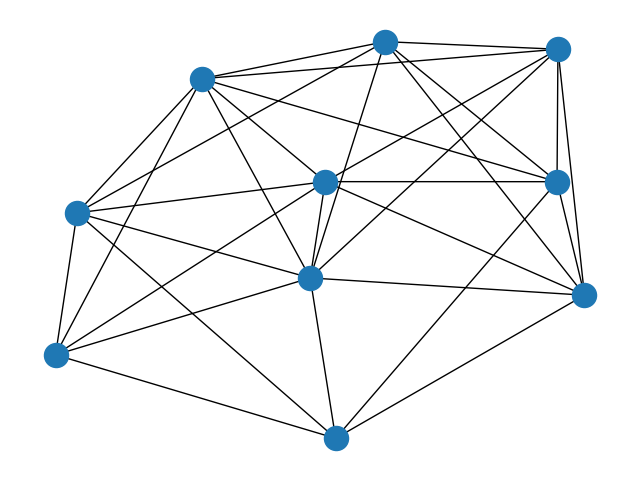
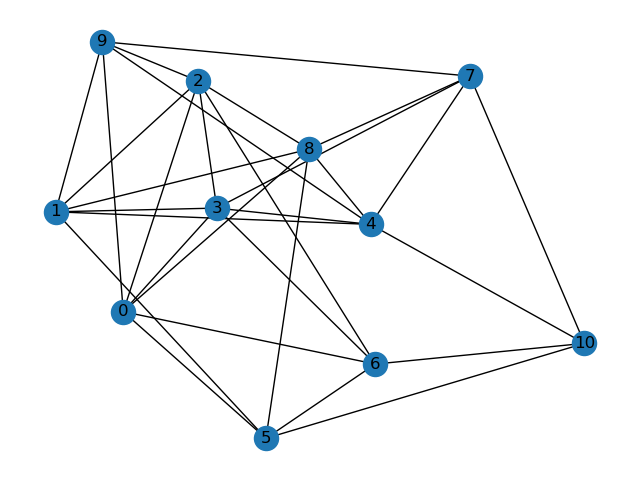
added latencies

diff --git a/main.py b/main.py
@@ -2,6 +2,8 @@ import heapq
 import random
 import networkx as nx
 import matplotlib.pyplot as plt
+import numpy as np
+
 class Peer: 
     def __init__(self, peer_id, is_slow, is_low_cpu):
         self.peer_id = peer_id
@@ -11,6 +13,14 @@ class Peer:
 
     def __repr__(self):
         return f"Peer {self.peer_id} ({'slow' if self.is_slow else 'fast'}, {'low CPU' if self.is_low_cpu else 'high CPU'})"
+
+class Block:
+    def __init__ (self,blockid,parentid,txnIncluded):
+        self.blockid=blockid
+        self.parentid=parentid
+        self.txnIncluded=txnIncluded
+
+
 
 class Event:
     def __init__(self, time, peer, event_type, data=None):
@@ -30,15 +40,15 @@ class NetworkSimulator:
         self.num_peers = num_peers
         self.slow_percent = slow_percent
         self.low_cpu_percent = low_cpu_percent
-        self.numSlow= (self.slow_percent*num_peers)/100
+        self.numSlow= int((self.slow_percent*num_peers)/100)
         self.numFast= num_peers-self.numSlow
-        self.numLowCpu= (self.slow_percent*num_peers)/100
+        self.numLowCpu= int((self.slow_percent*num_peers)/100)
         self.numHighCpu= num_peers-self.numLowCpu
 
-        speedList = [True] * int(self.numSlow) + [False] * int(self.numFast)
+        speedList = [True] * self.numSlow + [False] * self.numFast
         random.shuffle(speedList)
 
-        cpuList = [True] * int(self.numLowCpu) + [False] * int(self.numHighCpu)
+        cpuList = [True] * self.numLowCpu + [False] * self.numHighCpu
         random.shuffle(cpuList)
 
         # Create peers
@@ -89,22 +99,50 @@ class NetworkSimulator:
         # Randomly connect nodes
         for i in range(num_peers):
             num_connections = random.randint(3, 6)
-            connected_nodes = set()
-            while len(connected_nodes) < num_connections:
+            connected_nodes = self.peers[i].connected_peers
+            while len(self.peers[i].connected_peers) < num_connections:
                 connected_node = random.randint(0, num_peers - 1)
-                if connected_node != i and connected_node not in connected_nodes:
+                if connected_node != i and connected_node not in self.peers[i].connected_peers and len(self.peers[connected_node].connected_peers)<6:
+                    # delay=random.uniform(10,500) 
+                    # G.add_edge(i, connected_node,delay=delay)
                     G.add_edge(i, connected_node)
-                    connected_nodes.add(connected_node)
-            for index in connected_nodes:
-                self.peers[i].connected_peers.add(self.peers[index])
+                    self.peers[i].connected_peers.add(self.peers[connected_node])
+                    self.peers[connected_node].connected_peers.add(self.peers[i])
+            # for index in connected_nodes:
+            #     self.peers[i].connected_peers.add(self.peers[index])
             # self.peers[i].connected_peers=connected_nodes
             # self.peers[i].peer_id=i
+        self.edge_latencies={}
+        for edge in G.edges():
+            sender=edge[0]
+            receiver=edge[1]
+            node1=self.peers[sender]
+            node2=self.peers[receiver]
+            cij=0
+            if node1.is_slow or node2.is_slow:
+                cij=5000   #kbps
+            else:
+                cij=100000  #kbps 
+            propDelay=random.uniform(0.01,0.5) #Propagation delay(ρij)
+            dij=np.random.exponential(96/cij)
+            totalDelay=dij+propDelay
+            self.edge_latencies[(sender,receiver)]=totalDelay
+            # pos = nx.spring_layout(G)
+            # nx.draw_networkx_edge_labels(G, pos, edge_labels={(sender, receiver): f"{totalDelay:.6f}s"})
         
-        nx.draw(G)
+        nx.draw(G,with_labels=True)
+        # pos = nx.spring_layout(G)
+        # edge_labels = nx.get_edge_attributes(G, 'delay')
+        # nx.draw_networkx_edge_labels(G, pos, edge_labels=edge_labels)
         plt.savefig("Graph.png")
 
+
+
+
+
+
 if __name__ == "__main__":
-    num_peers = 10
+    num_peers = 11
     slow_percent = 20
     low_cpu_percent = 30
     simulation_time = 10
@@ -113,8 +151,6 @@ if __name__ == "__main__":
     for peer in network_simulator.peers:
         network_simulator.schedule_event(0, peer, "send_block")
     
-
-    
-
     network_simulator.graphGenerator()
     network_simulator.run_simulation(simulation_time)
+    print(network_simulator.edge_latencies)
